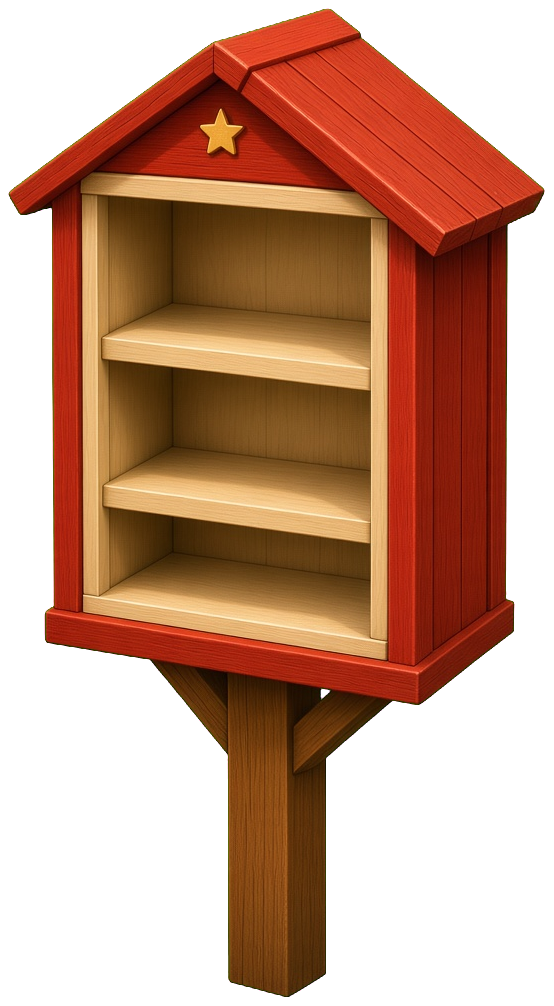
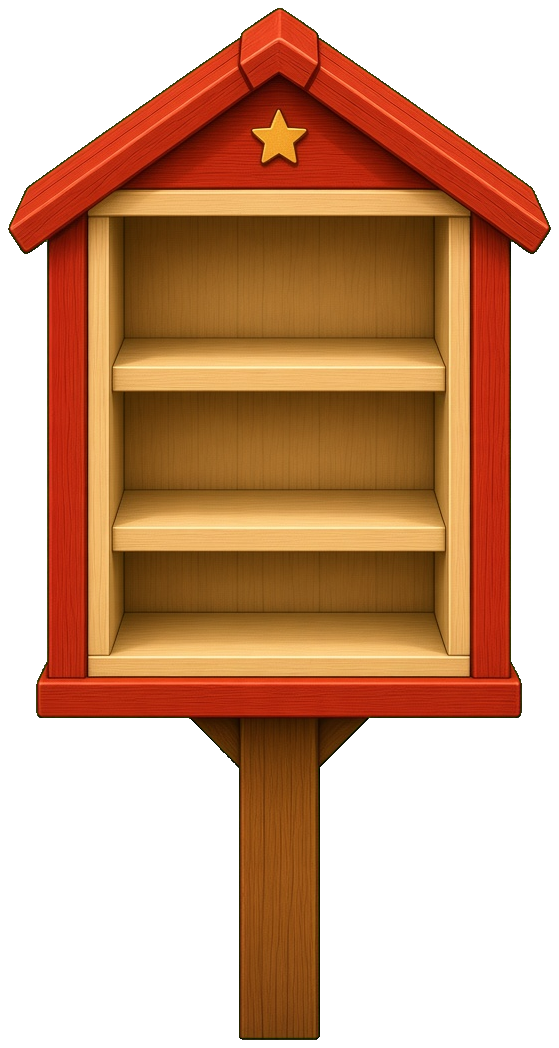
fix(player): face the little library straight at the camera
Keep the painted wood, roof, post, and shadow, and drop the three-quarter side wall.

diff --git a/apps/player/src/pixi/libraryShelfLayout.ts b/apps/player/src/pixi/libraryShelfLayout.ts
@@ -46,27 +46,27 @@ export type LibraryHouseMetrics = {
 
 /**
  * House-on-a-post box. No door. Interior is the open shelf cavity.
- * Fractions are measured on `public/art/painted/farm/little_library.png` (554×1006).
+ * Fractions are measured on the front-facing `little_library.png` (559×1048).
  * Equal shelfPair pads (4% / 5%) put cubby bottoms on the painted plank tops
- * (about 34% and 48.5% of the sprite height).
+ * (about 33.4% and 47.7% of the sprite height).
  */
 export function libraryHouseMetrics(box: { w: number; h: number }): LibraryHouseMetrics {
   const { w, h } = box;
-  const body = { x: w * 0.08, y: h * 0.15, w: w * 0.72, h: h * 0.42 };
-  const postW = Math.max(8, w * 0.14);
+  const body = { x: w * 0.06, y: h * 0.12, w: w * 0.88, h: h * 0.55 };
+  const postW = Math.max(8, w * 0.16);
   const postY = body.y + body.h;
   return {
     body,
-    interior: { x: w * 0.155, y: h * 0.198, w: w * 0.53, h: h * 0.299 },
-    post: { x: body.x + body.w * 0.48 - postW / 2, y: postY, w: postW, h: Math.max(8, h - postY) },
+    interior: { x: w * 0.17, y: h * 0.194, w: w * 0.64, h: h * 0.295 },
+    post: { x: body.x + body.w * 0.5 - postW / 2, y: postY, w: postW, h: Math.max(8, h - postY) },
     roof: {
-      apexX: body.x + body.w * 0.42,
+      apexX: body.x + body.w * 0.5,
       apexY: h * 0.02,
       left: w * 0.02,
-      right: w * 0.9,
+      right: w * 0.98,
       eaveY: body.y + h * 0.02,
     },
-    star: { x: body.x + body.w * 0.42, y: h * 0.09, r: Math.max(4, w * 0.045) },
+    star: { x: body.x + body.w * 0.5, y: h * 0.08, r: Math.max(4, w * 0.05) },
   };
 }
 

diff --git a/apps/player/src/pixi/libraryShelfLayout.test.ts b/apps/player/src/pixi/libraryShelfLayout.test.ts
@@ -124,16 +124,16 @@ test("overflow past the shelf cap adds one chip and keeps jars readable", () => 
 });
 
 test("painted shelf lips sit on the little library planks", () => {
-  const box = { w: 554, h: 1006 };
+  const box = { w: 559, h: 1048 };
   const house = libraryHouseMetrics(box);
   const layout = libraryShelfLayout(house.interior, 2, 0);
   const lips = layout.slots.map((slot) => (house.interior.y + slot.y + slot.h) / box.h);
-  assert.ok(Math.abs(lips[0]! - 0.34) < 0.012, `top lip ${lips[0]}`);
-  assert.ok(Math.abs(lips[1]! - 0.485) < 0.012, `bottom lip ${lips[1]}`);
+  assert.ok(Math.abs(lips[0]! - 0.334) < 0.012, `top lip ${lips[0]}`);
+  assert.ok(Math.abs(lips[1]! - 0.477) < 0.012, `bottom lip ${lips[1]}`);
   const woodLeft = house.interior.x / box.w;
   const woodRight = (house.interior.x + house.interior.w) / box.w;
-  assert.ok(woodLeft > 0.12 && woodLeft < 0.2, "interior starts on the left shelf board");
-  assert.ok(woodRight > 0.64 && woodRight < 0.74, "interior ends before the side wall");
+  assert.ok(woodLeft > 0.14 && woodLeft < 0.22, "interior starts inside the left jamb");
+  assert.ok(woodRight > 0.75 && woodRight < 0.88, "interior ends inside the right jamb");
 });
 
 test("house metrics leave an open cabinet inside the post and roof", () => {

diff --git a/apps/player/src/pixi/playfieldLayout.test.ts b/apps/player/src/pixi/playfieldLayout.test.ts
@@ -72,12 +72,12 @@ test("farm overview shows the little library and not a job board or tube chip", 
   const local = uvRectToLocal(hit, 1536, 1024);
   const width = local.x1 - local.x0;
   const height = local.y1 - local.y0;
-  // Painted house is a tall 554×1006 sprite, narrower than the old 184×225 stake.
+  // Front-facing painted house is 559×1048, narrower than the old 184×225 stake.
   assert.ok(width >= 120, "wide enough for two jars");
   assert.ok(height >= 180, "tall enough for open shelves");
   assert.ok(width <= 176, "narrower than the old sticker");
   assert.ok(width * height < 184 * 225, "smaller footprint than the old floating stake");
-  assert.ok(Math.abs(width / height - 554 / 1006) < 0.02, "hit matches the painted sprite");
+  assert.ok(Math.abs(width / height - 559 / 1048) < 0.02, "hit matches the painted sprite");
   assert.ok(hit.v0 >= 0.14, "roof sits down in the scene");
   assert.ok(hit.v1 >= 0.37, "post reaches the grass");
 });

diff --git a/apps/player/src/pixi/playfieldLayout.ts b/apps/player/src/pixi/playfieldLayout.ts
@@ -31,11 +31,11 @@ export type PixelRect = { x0: number; y0: number; x1: number; y1: number };
 
 /**
  * Little library on the grass beside the tractor.
- * The painted sprite is a tall house-on-a-post (554×1006), so the hit is narrower
- * than the old floating stake (184×225) and the post still meets the grass.
+ * Front-facing painted house on a post (559×1048). Narrower than the old
+ * floating stake (184×225), with the post meeting the grass.
  * Stays above the garden fences and left of the calf.
  */
-const FARM_LIBRARY_HIT = { u0: 0.3008, v0: 0.1475, u1: 0.39, v1: 0.3906 } as const satisfies UvRect;
+const FARM_LIBRARY_HIT = { u0: 0.3021, v0: 0.1475, u1: 0.3887, v1: 0.3906 } as const satisfies UvRect;
 
 export const PLAYFIELD_TEXTURE = { width: 1536, height: 1024 } as const;
 

diff --git a/apps/player/src/pixi/paintedAssets.ts b/apps/player/src/pixi/paintedAssets.ts
@@ -109,7 +109,7 @@ export const PAINTED_ART = {
   /** Front rim/lip drawn over produce bottoms (same canvas / true alpha nesting). */
   harvestBasketRim: "/art/painted/garden/harvest_basket_rim.png?v=3shallow",
   /** Open little library on the farm overview. Empty shelves; jars are drawn on top. */
-  littleLibrary: "/art/painted/farm/little_library.png?v=2",
+  littleLibrary: "/art/painted/farm/little_library.png?v=3",
 } as const;
 
 export type PaintedArt = {

diff --git a/apps/player/src/pixi/littleLibrary.ts b/apps/player/src/pixi/littleLibrary.ts
@@ -422,7 +422,7 @@ class ShelfJar {
 /**
  * Neighborhood little free library on the farm overview.
  * Open shelves, no door. Stays visible when every shelf is empty.
- * The house is the painted isometric sprite; jars are drawn in the same soft glass style.
+ * The house is the painted front-facing sprite; jars are drawn in the same soft glass style.
  */
 export class LittleLibrary {
   readonly root = new Container();

diff --git a/apps/player/public/art/painted/README.md b/apps/player/public/art/painted/README.md
@@ -11,6 +11,6 @@ Texture is **1536×1024**. UV anchors (fractions of the painting) live in `apps/
 | `plants/plant_*_stages.png` | 4-frame horizontal crop sheets (left→right: seed, seedling, buds, ripe). Frame width 480. Pivot on the soil-disc center of each painted garden mound. Crop **names are not painted on the art** — Pixi/React labels use `/api` tier names. |
 | `garden/garden_zoom_3x3.jpg` | Zoomed garden close-up: fenced dirt with **nine empty mounds**, blank back sign, no animals. Cover-fit. |
 | `garden/tool_seeds.png` / `tool_water.png` / `tool_fert.png` | Garden toolbar icons (PNG, real alpha). |
-| `farm/little_library.png` | Farm-overview little free library (554×1006, open shelves, no door). Isometric painted house on a post, matching the barn and tractor. Jars are drawn on the measured shelf lips at runtime. |
+| `farm/little_library.png` | Farm-overview little free library (559×1048, open shelves, no door). Front-facing painted house on a post, matching the barn and tractor. Jars are drawn on the measured shelf lips at runtime. |
 
 No Holstein is baked into the playfield. Only the animated calf is drawn; it weaves around barn, tractor, hay, stand, and garden fences.
